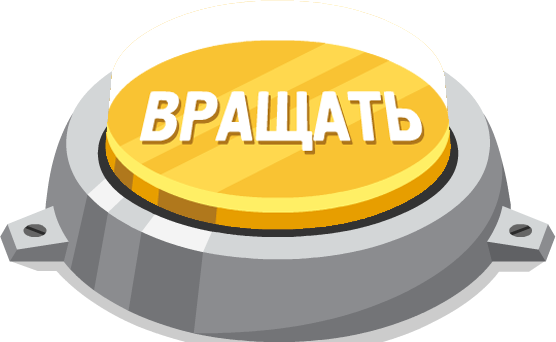
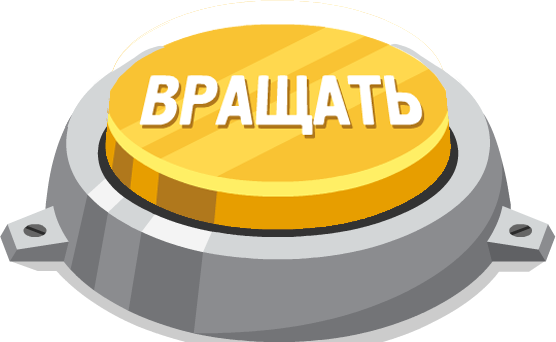
added spin button animation

Changed region(s): [[0.1835, 0.0585, 0.8255, 0.6433]]

diff --git a/src/components/SlotMachine.tsx b/src/components/SlotMachine.tsx
@@ -85,10 +85,10 @@ export default function SlotMachine()
             backgroundPosition: 'center',
         }}>
 
-            <div className="w-1/2 h-15 relative flex flex-wrap items-center justify-center border py-2 pl-5 mb-2">
+            {/* <div className="w-1/2 h-15 relative flex flex-wrap items-center justify-center border py-2 pl-5 mb-2">
                 <BoltIcon className="size-5 absolute left-1/7"/> 
                 { spins } / 50
-            </div>
+            </div> */}
             
             <div className="flex m-[260px] gap-[10px]">
                 <SlotReel symbol={reels[0]} spinning={rolling} />
@@ -99,11 +99,7 @@ export default function SlotMachine()
         </div>
 
         { spins > 0 ? (
-                <button onClick={spin} disabled={rolling} className="button w-[260px] h-[160px]" style={{
-                    backgroundImage: 'url("/assets/slot/spinButton.png")',
-                    backgroundSize: 'cover',     
-                    backgroundPosition: 'center',
-                }}>
+                <button onClick={spin} disabled={rolling} className="spin-button button w-[260px] h-[160px]">
                 </button>
             ) : (
                 <div className="flex flew-row justify-around items-center w-full h-15 mt-2">

diff --git a/src/styles/globals.css b/src/styles/globals.css
@@ -53,3 +53,23 @@ body {
     transition: all 0.3s;
     font-family: monospace;
 }
+
+.spin-button {
+  background-image: url("/assets/slot/spinButton.png");
+  background-size: cover;
+  background-position: center;
+  transition: transform 0.05s ease;
+}
+
+/* КНОПКА НАЖАТА */
+.spin-button:active {
+  background-image: url("/assets/slot/spinButtonPressed.png");
+  transform: scale(0.98);
+}
+
+/* КОГДА СПИН ИДЁТ */
+.spin-button:disabled {
+  background-image: url("/assets/slot/spinButton.png");
+  cursor: not-allowed;
+  opacity: 0.9;
+}
